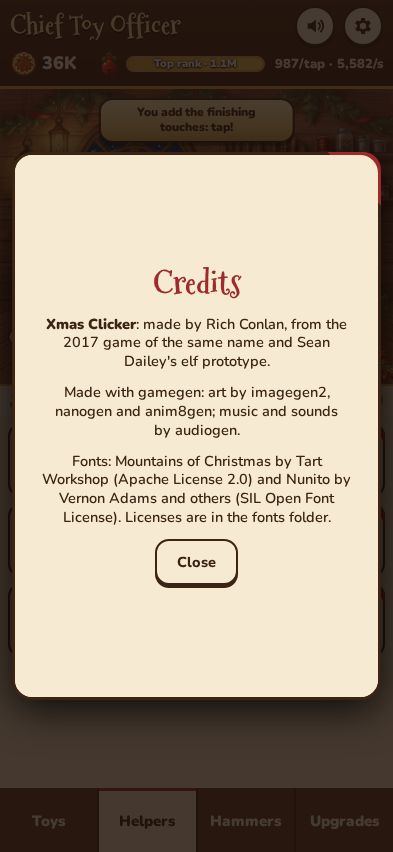
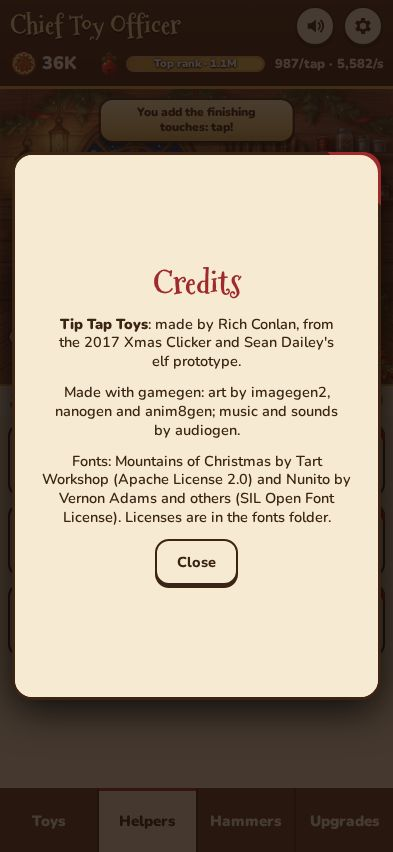
Rename the game Tip Tap Toys, at tiptaptoys.synapticnoise.com

Changed region(s): [[0.1221, 0.3662, 0.8855, 0.4577]]

diff --git a/game/index.html b/game/index.html
@@ -3,19 +3,19 @@
 <head>
 <meta charset="utf-8">
 <meta name="viewport" content="width=device-width, initial-scale=1, viewport-fit=cover">
-<title>Xmas Clicker: a cozy Christmas clicker</title>
+<title>Tip Tap Toys: a cozy Christmas clicker</title>
 <meta name="description" content="Hammer toys together in Santa's workshop, hire elves, and climb from Assistant Junior Toy Maker to Chief Toy Officer before Christmas Eve.">
 <meta name="theme-color" content="#9e2a2b">
 <meta property="og:type" content="website">
-<meta property="og:title" content="Xmas Clicker">
+<meta property="og:title" content="Tip Tap Toys">
 <meta property="og:description" content="A cozy Christmas clicker: hammer toys together in Santa's workshop and climb to the top before Christmas Eve.">
-<link rel="canonical" href="https://xmasclicker.synapticnoise.com/">
-<meta property="og:url" content="https://xmasclicker.synapticnoise.com/">
-<meta property="og:image" content="https://xmasclicker.synapticnoise.com/social-card.jpg">
-<meta name="twitter:image" content="https://xmasclicker.synapticnoise.com/social-card.jpg">
+<link rel="canonical" href="https://tiptaptoys.synapticnoise.com/">
+<meta property="og:url" content="https://tiptaptoys.synapticnoise.com/">
+<meta property="og:image" content="https://tiptaptoys.synapticnoise.com/social-card.jpg">
+<meta name="twitter:image" content="https://tiptaptoys.synapticnoise.com/social-card.jpg">
 <meta property="og:image:width" content="1200">
 <meta property="og:image:height" content="630">
-<meta property="og:image:alt" content="An elf at the workbench in Santa's workshop, under the title Xmas Clicker">
+<meta property="og:image:alt" content="An elf at the workbench in Santa's workshop, under the title Tip Tap Toys">
 <meta name="twitter:card" content="summary_large_image">
 <link rel="icon" href="favicon.png">
 <link rel="apple-touch-icon" href="apple-touch-icon.png">
@@ -38,14 +38,14 @@
 <section id="title" class="screen loading" data-screen="title">
   <div class="title-art"></div>
   <div class="title-text">
-    <h1>Xmas Clicker</h1>
+    <h1>Tip Tap Toys</h1>
   </div>
   <div class="title-buttons">
     <button id="btn-start" class="btn-big">Start building</button>
     <button id="btn-howto" class="btn-quiet">How to play</button>
   </div>
   <a class="title-link left" href="https://synapticnoise.com/">synapticnoise.com</a>
-  <a class="title-link right" href="https://github.com/zeveck/xmas-clicker" target="_blank" rel="noopener" title="Xmas Clicker on GitHub: how it was made">GitHub</a>
+  <a class="title-link right" href="https://github.com/zeveck/xmas-clicker" target="_blank" rel="noopener" title="Tip Tap Toys on GitHub: how it was made">GitHub</a>
 </section>
 
 <!-- How to play -->
@@ -141,7 +141,7 @@
     <p class="keys-note" id="keys-note">Space or Enter: hammer · 1–0: pick a toy · P: pause · M: mute</p>
     <div class="credits" id="credits" hidden>
       <h2>Credits</h2>
-      <p><b>Xmas Clicker</b>: made by Rich Conlan, from the 2017 game of the same name and Sean Dailey's elf prototype.</p>
+      <p><b>Tip Tap Toys</b>: made by Rich Conlan, from the 2017 Xmas Clicker and Sean Dailey's elf prototype.</p>
       <p>Made with gamegen: art by imagegen2, nanogen and anim8gen; music and sounds by audiogen.</p>
       <p>Fonts: Mountains of Christmas by Tart Workshop (Apache License 2.0) and Nunito by Vernon Adams and others (SIL Open Font License). Licenses are in the fonts folder.</p>
       <button class="btn-quiet" id="btn-credits-close">Close</button>

diff --git a/game/src/main.js b/game/src/main.js
@@ -1,4 +1,4 @@
-// Xmas Clicker: the game. Screens, the loop, input, the shop, cards and the finale.
+// Tip Tap Toys: the game. Screens, the loop, input, the shop, cards and the finale.
 const SIDE = '(orientation: landscape) and (max-height: 500px), (orientation: landscape) and (max-width: 899px)';
 import * as R from './rules.js';
 import { TOYS, RANKS, HAMMERS, HELPERS, UPGRADES, format, tally } from './rules.js';
@@ -711,7 +711,7 @@ addEventListener('orientationchange', () => setTimeout(() => screen === 'worksho
 
 // ---------- Bug reports ----------
 window.gameReport?.setup({
-  game: 'Xmas Clicker', key: 'chief-toy-officer', visibility: 'on',
+  game: 'Tip Tap Toys', key: 'chief-toy-officer', visibility: 'on',
   state: () => window.__game.state(),
   pause: () => openPause(),
   grab: () => Bench.grab(),

diff --git a/design/github-social.html b/design/github-social.html
@@ -14,4 +14,4 @@ p{margin:14px 0 0;font:900 30px/1.2 Nunito;color:#fff3da;text-shadow:0 2px 6px #
 </style></head><body><div class="bg"></div><div class="v"></div><div class="safe">
 <img class="tree" src="../game/assets/bg/tree.webp"><img class="pip" src="../game/assets/sprites/pip-swing/frame-1.webp">
 <img class="toy" style="left:400px" src="../game/assets/items/toy-01.webp"><img class="toy" style="left:530px" src="../game/assets/items/toy-08.webp"><img class="toy" style="left:660px" src="../game/assets/items/toy-02.webp">
-<div class="t"><h1>Xmas Clicker</h1><p>Hammer toys together in Santa's workshop</p></div></div></body></html>
+<div class="t"><h1>Tip Tap Toys</h1><p>Hammer toys together in Santa's workshop</p></div></div></body></html>

diff --git a/design/social-card.html b/design/social-card.html
@@ -14,4 +14,4 @@ p{margin:14px 0 0;font:900 30px/1.2 Nunito;color:#fff3da;text-shadow:0 2px 6px #
 </style></head><body><div class="bg"></div><div class="v"></div><div class="safe">
 <img class="tree" src="../game/assets/bg/tree.webp"><img class="pip" src="../game/assets/sprites/pip-swing/frame-1.webp">
 <img class="toy" style="left:416px" src="../game/assets/items/toy-01.webp"><img class="toy" style="left:551px" src="../game/assets/items/toy-08.webp"><img class="toy" style="left:686px" src="../game/assets/items/toy-02.webp">
-<div class="t"><h1>Xmas Clicker</h1><p>Hammer toys together in Santa's workshop</p></div></div></body></html>
+<div class="t"><h1>Tip Tap Toys</h1><p>Hammer toys together in Santa's workshop</p></div></div></body></html>

diff --git a/game/src/rules.js b/game/src/rules.js
@@ -1,4 +1,4 @@
-// Xmas Clicker: all the numbers and the pure rules. No DOM, so node can import it.
+// Tip Tap Toys: all the numbers and the pure rules. No DOM, so node can import it.
 
 export const TOYS = [
   { id: 'toy-01', name: 'Wooden Tractor', work: 10, cookies: 2, cheer: 1 },

diff --git a/design/STATUS.md b/design/STATUS.md
@@ -1,4 +1,4 @@
-# Xmas Clicker
+# Tip Tap Toys
 
 ## Requests
 
@@ -14,6 +14,7 @@
 9. `/gamegen --out xmas-clicker --publish xmasclicker.synapticnoise.com` (asked for with "Do both of those", together with 10)
 10. `/gamegen --out xmas-clicker --change add a little snow globe on the shelf that shakes when you get promoted`
 11. `/gamegen:gamegen --out xmas-clicker --publish` (confirmed: `yes`)
+12. `Let's use Tip Tap Toys. Update everything appropriately and publish no-confirm.` (run as `/gamegen --out xmas-clicker --change rename the game Tip Tap Toys --publish tiptaptoys.synapticnoise.com --no-confirm`)
 - Later request (exactly as typed): `When this lands, we should apply /gamegen:gamegen --feedback to both xmas-clicker and xmas-everywhere and /gamegen:gamegen --saves to xmas-everywhere`
 
 ## Settings
@@ -28,8 +29,8 @@
 - ElevenLabs tier: creator (no credit line needed)
 - Available: imagegen2, anim8gen (OpenAI ok), nanogen (Gemini ok), audiogen (ElevenLabs ok), playwright-cli, node, Python + Pillow (installed this run).
 
-- GitHub preview image: to upload (changed 2026-11-26)
-- Repo: zeveck/xmas-clicker (public). Address: https://xmasclicker.synapticnoise.com/ (moved from chieftoyofficer.synapticnoise.com on 2026-11-26)
+- GitHub preview image: to upload (changed 2026-11-27)
+- Repo: zeveck/xmas-clicker (public). Address: https://tiptaptoys.synapticnoise.com/ (moved from xmasclicker.synapticnoise.com on 2026-11-27, which had moved from chieftoyofficer.synapticnoise.com on 2026-11-26)
 
 ## Phases
 
@@ -57,3 +58,4 @@
 - [x] Moved to https://xmasclicker.synapticnoise.com/ (2026-11-26): DNS CNAME added at GoDaddy, HTTPS on, live game checked at 1280 and 390; gallery card, plans card, art page and sitemap point there; repo homepage updated. The old chieftoyofficer address now gives GitHub's 404 (its CNAME is still at GoDaddy, unused).
 - [x] Change 10: the snow globe on the lower shelf (left of the tree's tip) rocks, glints and tinkles when a promotion card closes, with snow swirling inside and settling over ~7 s. New: snow-globe picture (imagegen2) and globe-shake sound (audiogen), about $0.11 of $20. Checked: promoted from rank 1 with real taps at 1280, 800, 360, 393, 667 and 844 (frames at 60 ms to 7.5 s, design/screenshots/globe-frames.jpg), the sound loads (21 decoded) and sits at the other effects' level; ranks 9→10 and 10→Christmas Eve replayed with real input; no console errors. Art sheet rebuilt in .gamegen/art-sheet (manifest updated); on the plans page since the publish below.
 - [x] Published change 10 (2026-11-26): deployed; the live game checked at 1280 and 390 (promoted with real taps, the globe shook, sound loaded, scanner clean, no errors); art page on the plans page now shows the snow globe and its tinkle.
+- [x] Change 12: renamed Tip Tap Toys (title screen, page title and tags, app name, credits now "from the 2017 Xmas Clicker", report-a-bug name, README, design, social card and GitHub preview). Checked: title and credits at 1280, 800, 360, 393, 667 and 844 with the text scanner and real clicks, no console errors; previews looked at.

diff --git a/README.md b/README.md
@@ -1,4 +1,4 @@
-# Xmas Clicker
+# Tip Tap Toys
 
 *Hammer your way from Assistant Junior Toy Maker to the top of Santa's workshop.*
 
@@ -8,7 +8,7 @@ watch the presents pile up under the tree. Every promotion unlocks a new toy
 and a sillier job title, until Santa names you Chief Toy Officer and you build
 the last toy before the sleigh leaves on Christmas Eve.
 
-**[▶ Play Xmas Clicker](https://xmasclicker.synapticnoise.com/)** in your browser. No
+**[▶ Play Tip Tap Toys](https://tiptaptoys.synapticnoise.com/)** in your browser. No
 install, works on desktop and on phones.
 
 ![The title screen: the workshop at night in the snow](media/screenshots/title.png)
@@ -39,7 +39,7 @@ you from your first tap to Christmas Eve.
 
 ## How it was made
 
-Xmas Clicker was made by [Claude Code](https://claude.com/claude-code) with
+Tip Tap Toys was made by [Claude Code](https://claude.com/claude-code) with
 [gamegen](https://github.com/zeveck/gamegen), from this request:
 
 > `/gamegen --remake https://synapticnoise.com/xmasclicker --plan-only --share-design --leeway lots`
@@ -74,6 +74,10 @@ And to put a little snow globe on the shelf that shakes when you get promoted:
 
 > `/gamegen --out xmas-clicker --change add a little snow globe on the shelf that shakes when you get promoted`
 
+And finally, to settle on its name, Tip Tap Toys, at its own address:
+
+> `/gamegen --out xmas-clicker --change rename the game Tip Tap Toys --publish tiptaptoys.synapticnoise.com --no-confirm` (from "Let's use Tip Tap Toys. Update everything appropriately and publish no-confirm.")
+
 gamegen had review agents polish the design, made the art, animation, music and
 sound with these plugins, built it, and play-tested it:
 
@@ -89,7 +93,7 @@ sound with these plugins, built it, and play-tested it:
 
 ## Playing locally
 
-Xmas Clicker is a plain web page with no build step. Serve the `game`
+Tip Tap Toys is a plain web page with no build step. Serve the `game`
 folder with any static web server, for example:
 
     cd game
@@ -99,5 +103,5 @@ then open http://localhost:8000.
 
 ## Credits
 
-- An idea by Rich Conlan, from the 2017 game of the same name and Sean Dailey's elf prototype.
+- An idea by Rich Conlan, from the 2017 Xmas Clicker and Sean Dailey's elf prototype.
 - Fonts: [Mountains of Christmas](https://fonts.google.com/specimen/Mountains+of+Christmas) by Tart Workshop (Apache License 2.0) and [Nunito](https://fonts.google.com/specimen/Nunito) by Vernon Adams and others (SIL Open Font License 1.1). Their licenses are in `game/fonts/`.

diff --git a/design/GAME_DESIGN.md b/design/GAME_DESIGN.md
@@ -1,4 +1,4 @@
-# Xmas Clicker
+# Tip Tap Toys
 
 *Hammer your way from Assistant Junior Toy Maker to the top of Santa's workshop.*
 
@@ -22,7 +22,7 @@ Officer and you build the last toy before the sleigh leaves on Christmas Eve.
 - Feedback: on (a "Report a bug" button for players; see the tech plan)
 - Remake of: Xmas Clicker (synapticnoise.com/xmasclicker), leeway lots. See `ORIGINAL.md`.
 - Decisions made on the player's behalf:
-  - The name is **Xmas Clicker** (renamed from Chief Toy Officer on request, 2026-11-26; Chief Toy Officer stays the top rank). The game never calls itself a remake (changed on request, 2026-11-24); the credits name the 2017 game of the same name.
+  - The name is **Tip Tap Toys** (on request, 2026-11-27; it was Chief Toy Officer, then briefly Xmas Clicker; Chief Toy Officer stays the top rank). The game never calls itself a remake (changed on request, 2026-11-24); the credits name the 2017 Xmas Clicker as where it came from.
   - The elf has no name: the game says "you" (changed on request, 2026-11-26). Files keep their `pip-` names.
   - Three names change for originality: **Thunder Mallet** (was Thor's Hammer), **Pixel Play** console (was Super Game System), **Doodle Dial** (was Sketch An Etch).
   - The original's toy "value" becomes **cookies**, the money you spend.
@@ -729,7 +729,7 @@ Nice to have:
   bundled in `game/vendor/` (`gh-feedback.js`, `report.js`), with
   `trigger="none"`, `repo=""` until publishing fills it in, the light theme
   and cranberry accent (`#9e2a2b`), and Nunito. `main.js` calls
-  `window.gameReport?.setup({ game: 'Xmas Clicker', key:
+  `window.gameReport?.setup({ game: 'Tip Tap Toys', key:
   'chief-toy-officer', visibility: 'on', state: () => window.__game.state(),
   pause, grab, releaseAll })`: `pause` opens pause and settings (never a
   toggle), `grab` renders the stage canvas layer over the stage images to a
